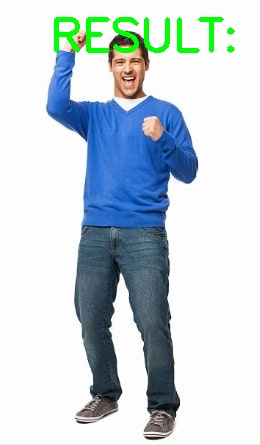
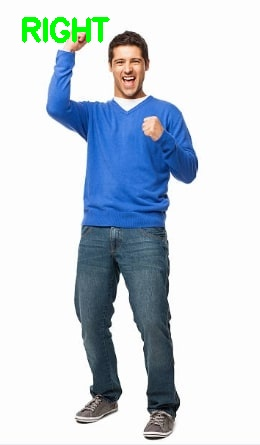
style: reduce font size on output images to prevent text cutoff

Changed region(s): [[0.0615, 0.0292, 0.7692, 0.1461], [0.7692, 0.0292, 0.8615, 0.1169], [0.8615, 0.0584, 0.9231, 0.1169]]

diff --git a/task2/predict_arm.py b/task2/predict_arm.py
@@ -49,8 +49,8 @@ if __name__ == "__main__":
             # Gorseli oku, uzerine sonucu yaz ve kaydet
             image = cv2.imread(img_path)
             if image is not None:
-                # Yaziyi buyuk ve gorunur yapalim
-                cv2.putText(image, f"RESULT: {result.upper()}", (50, 50), cv2.FONT_HERSHEY_SIMPLEX, 1.5, (0, 255, 0), 4)
+                # Yaziyi daha kucuk ve sade yapalim ki ekrana sigsin
+                cv2.putText(image, result.upper(), (20, 40), cv2.FONT_HERSHEY_SIMPLEX, 1.0, (0, 255, 0), 3)
                 filename = os.path.basename(img_path)
                 cv2.imwrite(f"output_{filename}", image)
 

diff --git a/task3/predict_face.py b/task3/predict_face.py
@@ -53,7 +53,7 @@ if __name__ == "__main__":
             # Gorseli oku, uzerine sonucu yaz ve kaydet
             image = cv2.imread(img_path)
             if image is not None:
-                cv2.putText(image, f"RESULT: {result.upper()}", (20, 50), cv2.FONT_HERSHEY_SIMPLEX, 1.5, (0, 0, 255), 4)
+                cv2.putText(image, result.upper(), (20, 40), cv2.FONT_HERSHEY_SIMPLEX, 1.0, (0, 0, 255), 3)
                 filename = os.path.basename(img_path)
                 cv2.imwrite(f"output_{filename}", image)
 
